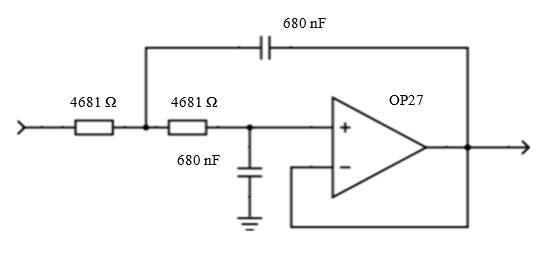
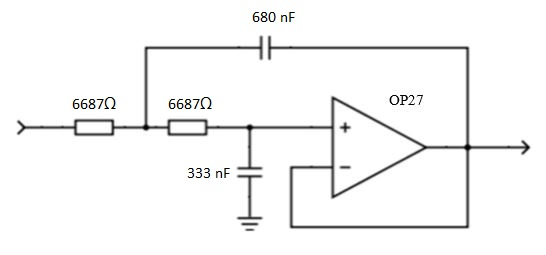
Komponentliste, rettelser af beregninger i dokumentation, ændring af bodeplot

diff --git a/LaTex - Projekt/Dfiler/Ddesign.tex b/LaTex - Projekt/Dfiler/Ddesign.tex
@@ -112,7 +112,7 @@ Ud fra dette kan regnes komponentværdierne for R, idet
 Ved hjælp af mathcad isoleres R.
 
 \begin{align}
-\frac{2}{R\cdot680\cdot10^{-9}}=2\cdot1\cdot(50\cdot2\cdot\pi) solve, R \to \frac{250000}{17\cdot\pi}=4.681\times 10^3
+\frac{2}{R\cdot680\cdot10^{-9}}=2\cdot0.7\cdot(50\cdot2\cdot\pi) solve, R \to \frac{250000}{17\cdot\pi}=6.687\times 10^3
 \end{align}
 
 Dernæst kan komponentværdien for C1 udregnes, idet:
@@ -125,7 +125,7 @@ Dernæst kan komponentværdien for C1 udregnes, idet:
 Ved hjælp af mathcad isoleres C1. 
 
 \begin{align}
-	\frac{1}{(4.681\times 10^{3})^{2}\cdot(680\cdot10^{-9})\cdot C_1}=(50\cdot 2\pi) solve, R \to \frac{250000}{17\pi}=4.681\times 10^3
+	\frac{1}{(6.687\times 10^{3})^{2}\cdot(680\cdot10^{-9})\cdot C_1}=(50\cdot 2\pi)^{2} solve, R \to 333,2\times 10^{-9}
 \end{align}
 
 Derved er komponentværdierne for kredsløbet fundet og de ses indskrevet på \ref{fig:Filter}. 
@@ -136,6 +136,8 @@ Derved er komponentværdierne for kredsløbet fundet og de ses indskrevet på \r
 	\caption{Unity gain 2. ordens Sallen-Key lavpas konfiguration med indsatte komponentværdier.}
 	\label{fig:Filter_K}
 \end{figure}
+
+Genetrelt gælder det for et Butterworth filter at der tilstræbes en dæmpningsfaktor, \zeta, på 0,7 for at filteret !!!!!!!!!!!!!!\
 
 Generelt er et unity gain Sallen-Key filter med equivalente capacitorer og equivalente resistore kritisk dæmpet dvs. en kvalitets faktor på 1/2. Dette kan også ses når komponentværdierne indsættes i ”Sallen-Key Low-pass Filter Design Tool”\footnote{http://sim.okawa-denshi.jp/en/OPseikiLowkeisan.htm}. Desuden ses bodeplottet nedenfor:
 
